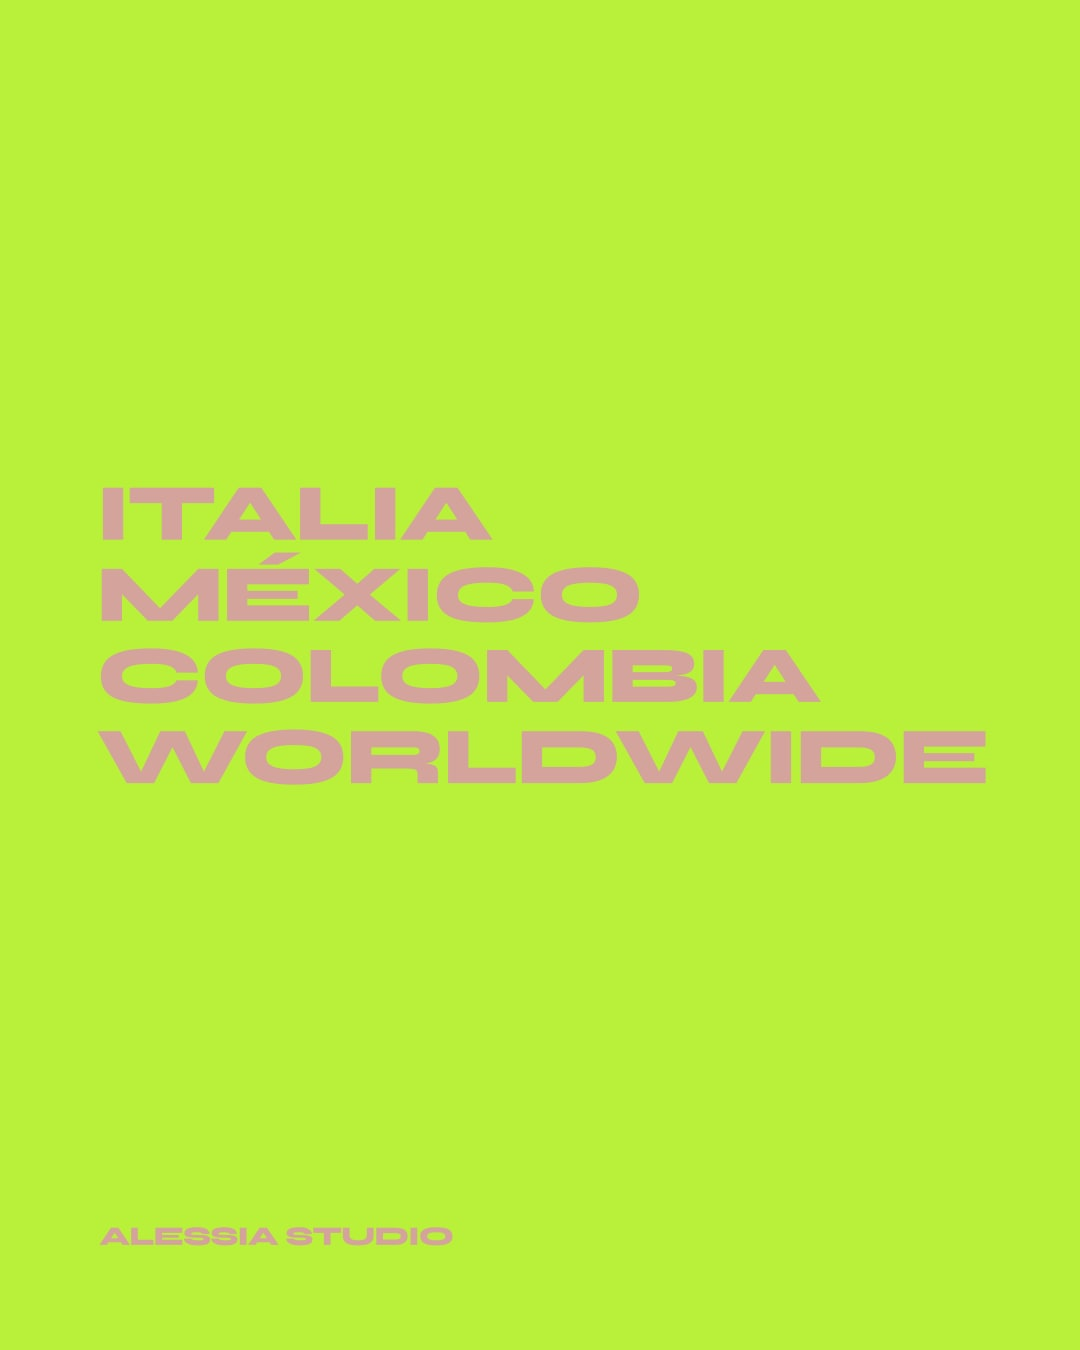
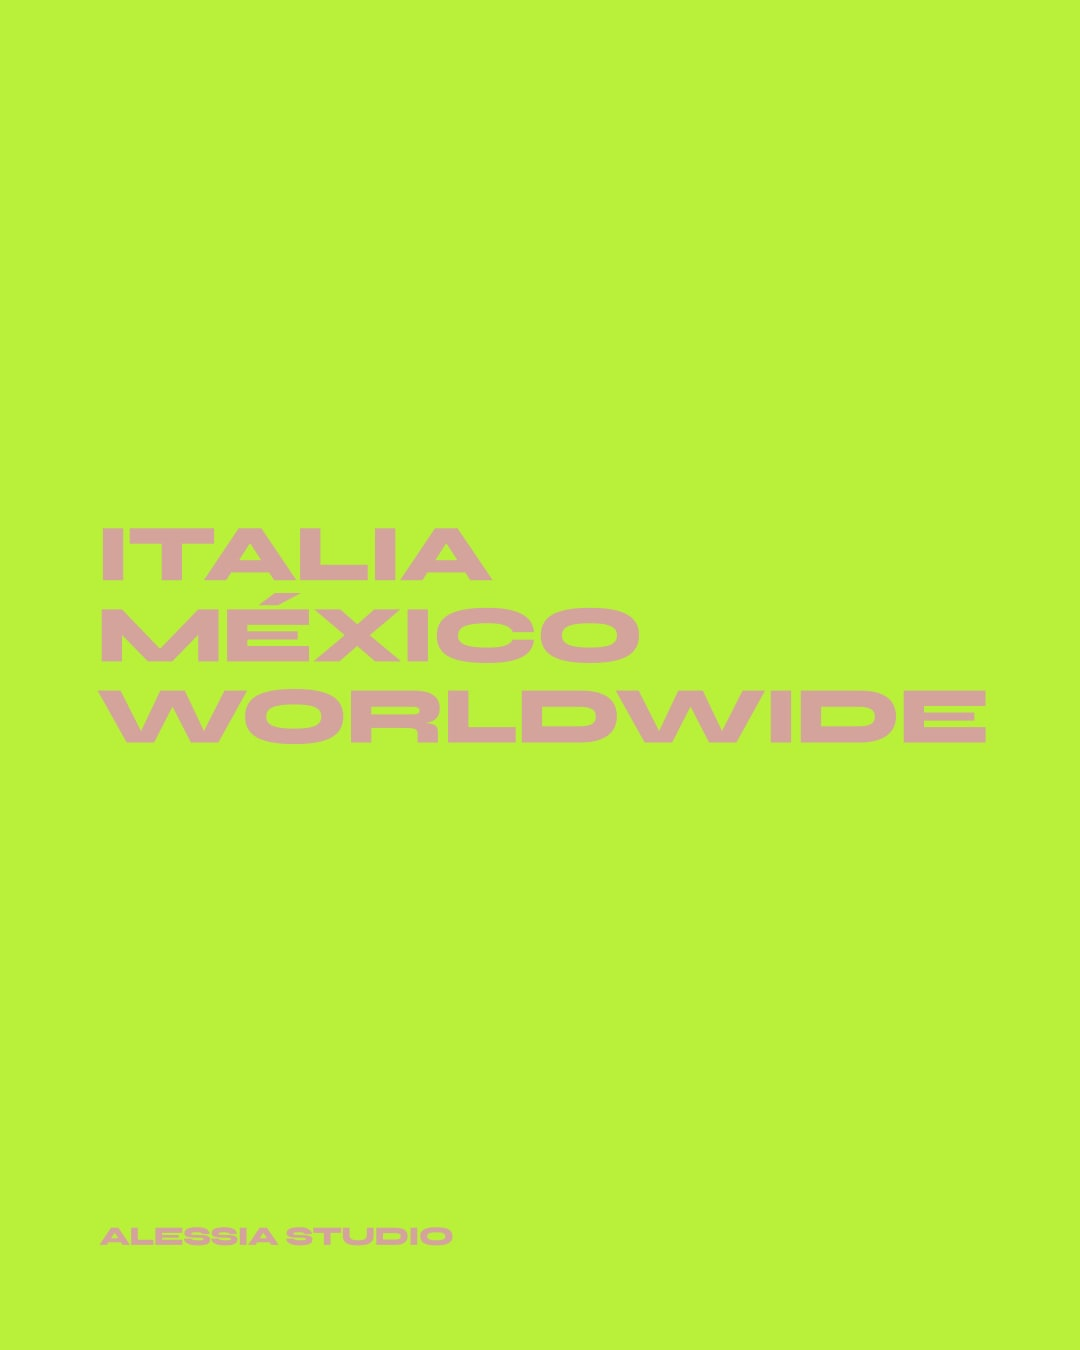
Sito: dominio www.alessia.studio nei meta tag; post 4 come pubblicato
SITE_URL = https://www.alessia.studio/ (il link del profilo Instagram):
l'immagine di anteprima per i social è ora un indirizzo completo, e ci sono
link canonico e lingue alternative (?lang=es|it|en|pt). Il profilo Instagram
@aless1astudio è nei dati strutturati (sameAs); sul sito il contatto resta
solo WhatsApp.

Il post 4 nel kit è quello pubblicato: Italia, México, Worldwide.

Claude-Session: https://claude.ai/code/session_01QuJDfzDVvdCMJCQg1EtV47

Changed region(s): [[0.0917, 0.3422, 0.9167, 0.5911]]

diff --git a/alessia-studio/vite.seo.js b/alessia-studio/vite.seo.js
@@ -10,7 +10,9 @@ import { getText, BRAND_NAME, CONTACT_LINKS, LANGS, DEFAULT_LANG, waLink } from 
 // Indirizzo pubblico del sito, con la barra finale (es. 'https://www.dominio.com/'). Serve per
 // l'immagine di anteprima, il link canonico e le lingue alternative, che devono essere assoluti:
 // finché è vuoto l'immagine resta relativa (Google la trova; WhatsApp e Facebook vogliono il dominio).
-export const SITE_URL = '';
+export const SITE_URL = 'https://www.alessia.studio/';
+// profili social dello studio (per Google, nei dati strutturati; sul sito resta solo WhatsApp)
+const PROFILES = ['https://www.instagram.com/aless1astudio/'];
 
 const LOCALE = { es: 'es_MX', it: 'it_IT', en: 'en_US', pt: 'pt_BR' };
 const esc = (s) => String(s).replace(/[&<>"']/g, (c) => ({ '&': '&amp;', '<': '&lt;', '>': '&gt;', '"': '&quot;', "'": '&#39;' })[c]);
@@ -26,6 +28,7 @@ function head() {
     '@type': 'Organization',
     name: 'Alessia Studio',
     ...(SITE_URL ? { url: SITE_URL, logo: abs('icon-192.png') } : {}),
+    sameAs: PROFILES,
     image,
     description,
     slogan: T.vision.title,

diff --git a/alessia-studio/README.md b/alessia-studio/README.md
@@ -43,9 +43,10 @@ Sul fondale c'è solo l'invito a girare la statua (`art`). Niente demo di client
 `vite.seo.js` scrive nell'HTML, al build, dai testi di `src/content.js` (`seo`, in spagnolo): titolo,
 descrizione, icone, Open Graph e X con l'immagine `public/og-image.jpg` (1200x630), dati strutturati
 schema.org e, per chi non esegue JavaScript, i testi del sito in una pagina semplice (`<noscript>`).
-Nel sito titolo e descrizione seguono la lingua scelta. **Quando il sito ha un dominio** va scritto in
-`SITE_URL` (in `vite.seo.js`): l'immagine di anteprima diventa un indirizzo completo (WhatsApp e Facebook lo
-richiedono) e si aggiungono link canonico e lingue alternative (`?lang=es|it|en|pt`).
+Nel sito titolo e descrizione seguono la lingua scelta. Il dominio (`https://www.alessia.studio/`) è in
+`SITE_URL` (in `vite.seo.js`): l'immagine di anteprima è un indirizzo completo (WhatsApp e Facebook lo
+richiedono) e ci sono link canonico e lingue alternative (`?lang=es|it|en|pt`). Il profilo Instagram è nei dati
+strutturati (`sameAs`), non sul sito, dove come contatto resta solo WhatsApp.
 Immagine e icone: `node tools/seo-assets.mjs <schermata>` (vedi in cima al file).
 
 ## Struttura

diff --git a/alessia-studio/brand/BRIEF-instagram.md b/alessia-studio/brand/BRIEF-instagram.md
@@ -15,7 +15,8 @@ Serve a chi prepara i post: tutto quello che c'è da sapere sta qui.
   movimiento que cuentan una marca como una visita.
 - **Lingue:** i post in **spagnolo**; se serve, una riga in inglese. Lo studio lavora in spagnolo,
   italiano, inglese e portoghese.
-- **Contatto:** solo WhatsApp +39 346 175 8562 (niente email nei post) · profilo Instagram: da aggiungere
+- **Contatto:** solo WhatsApp +39 346 175 8562 (niente email nei post) · Instagram: @aless1astudio ·
+  sito: www.alessia.studio
 
 ## Colori: solo due
 | | Nome | HEX | RGB | Uso |
